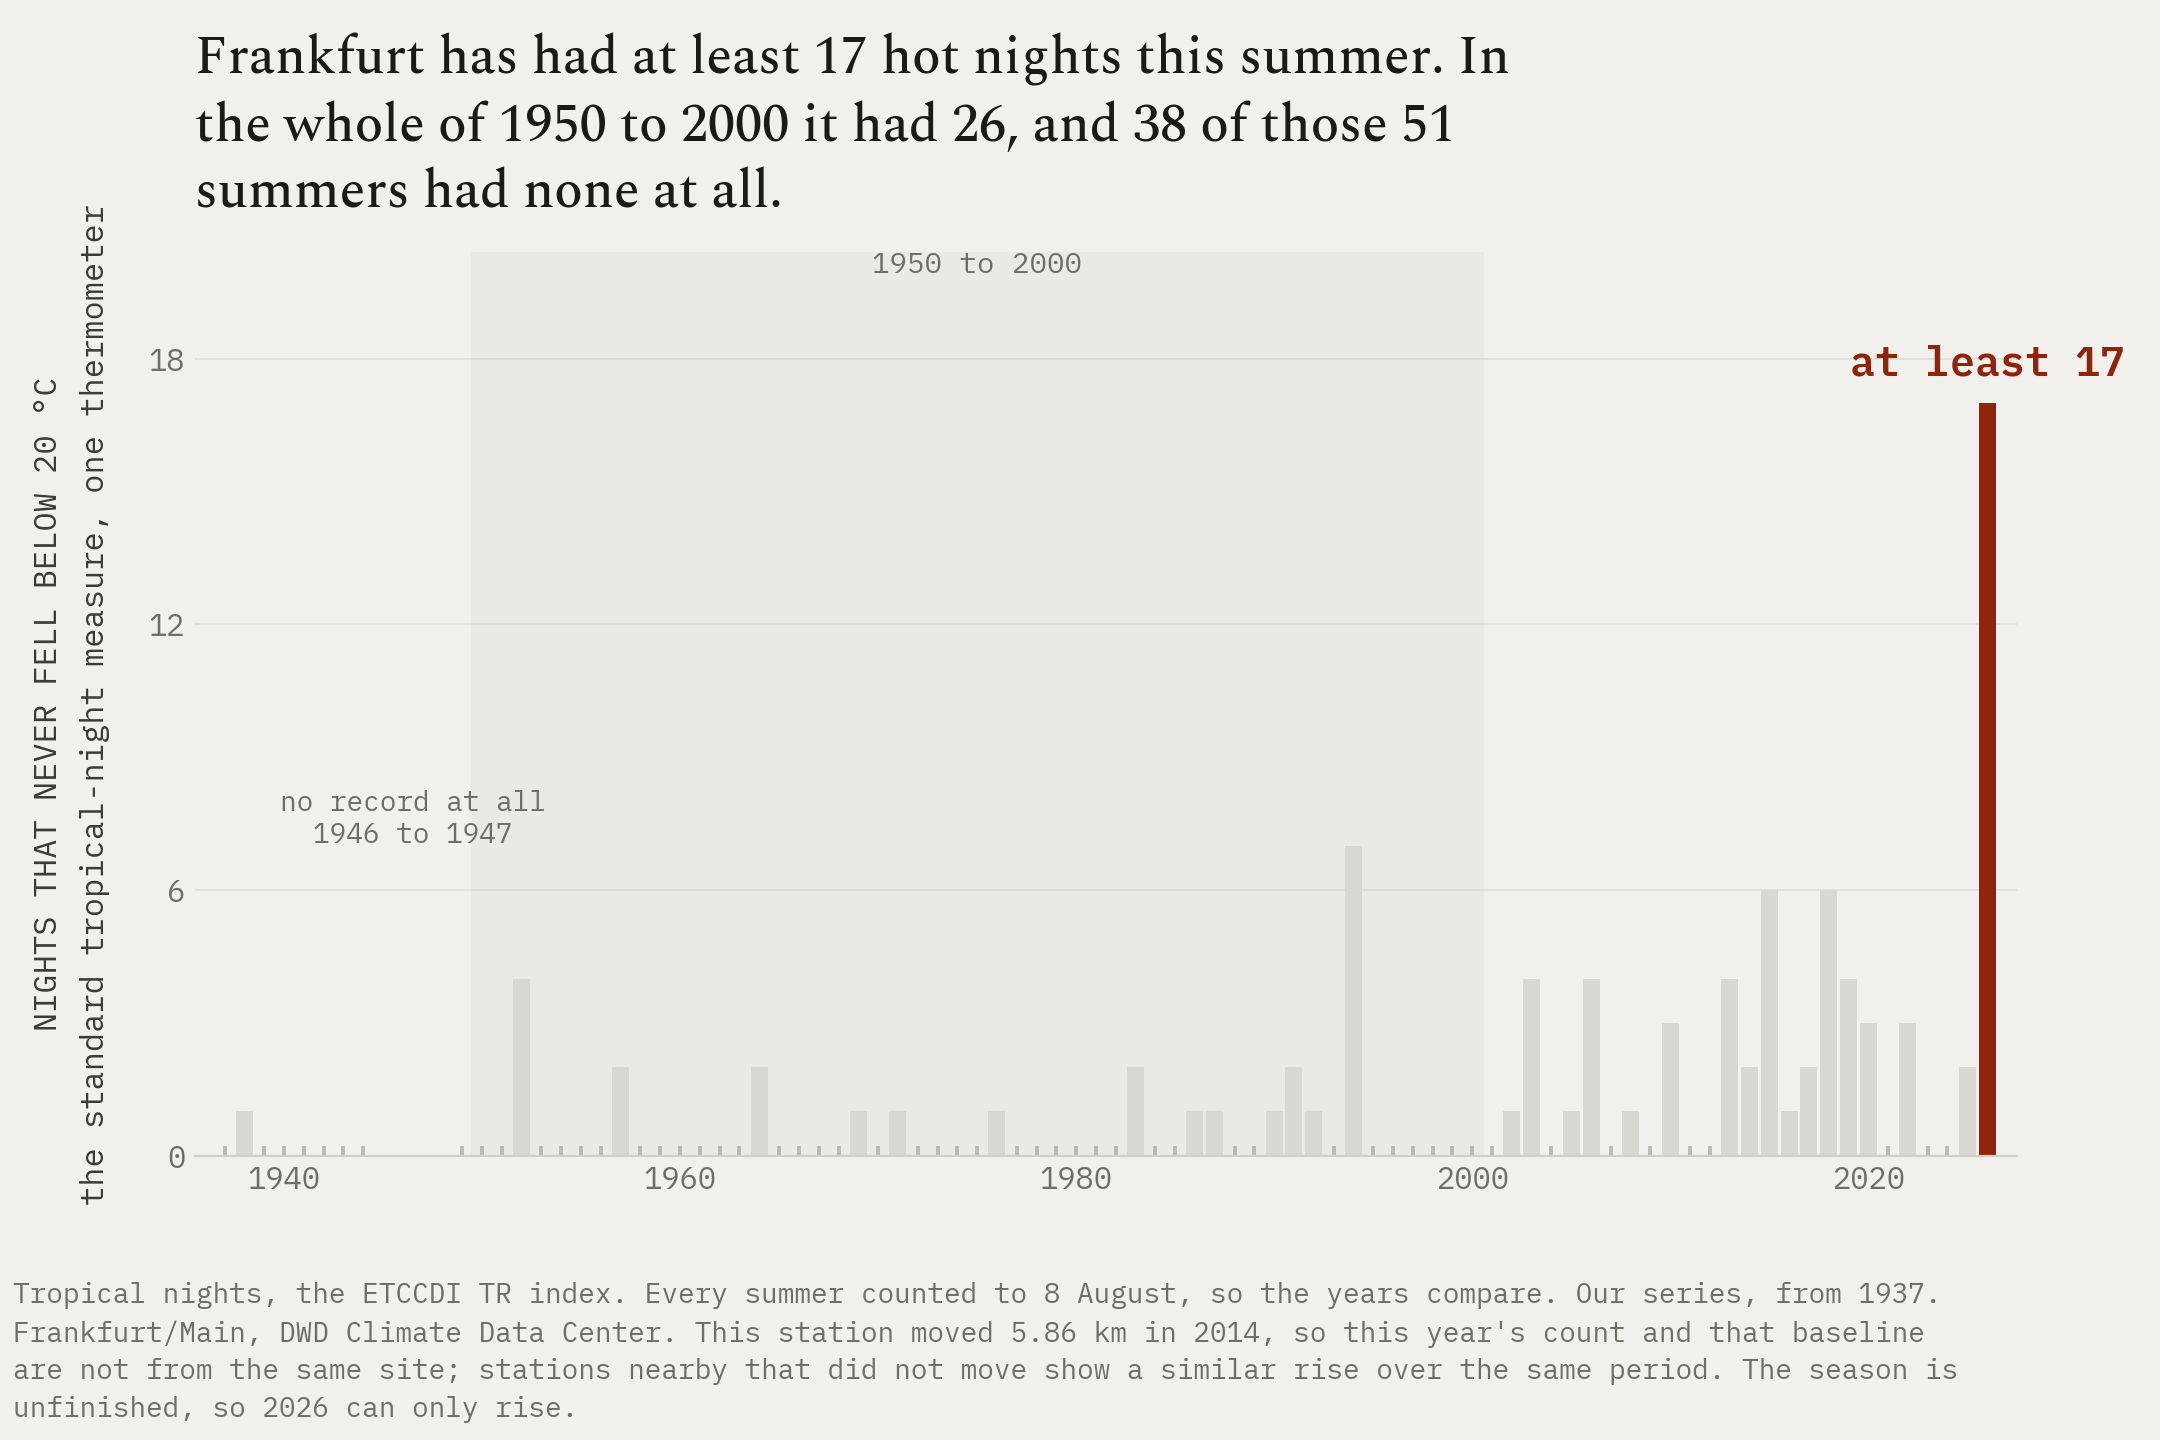
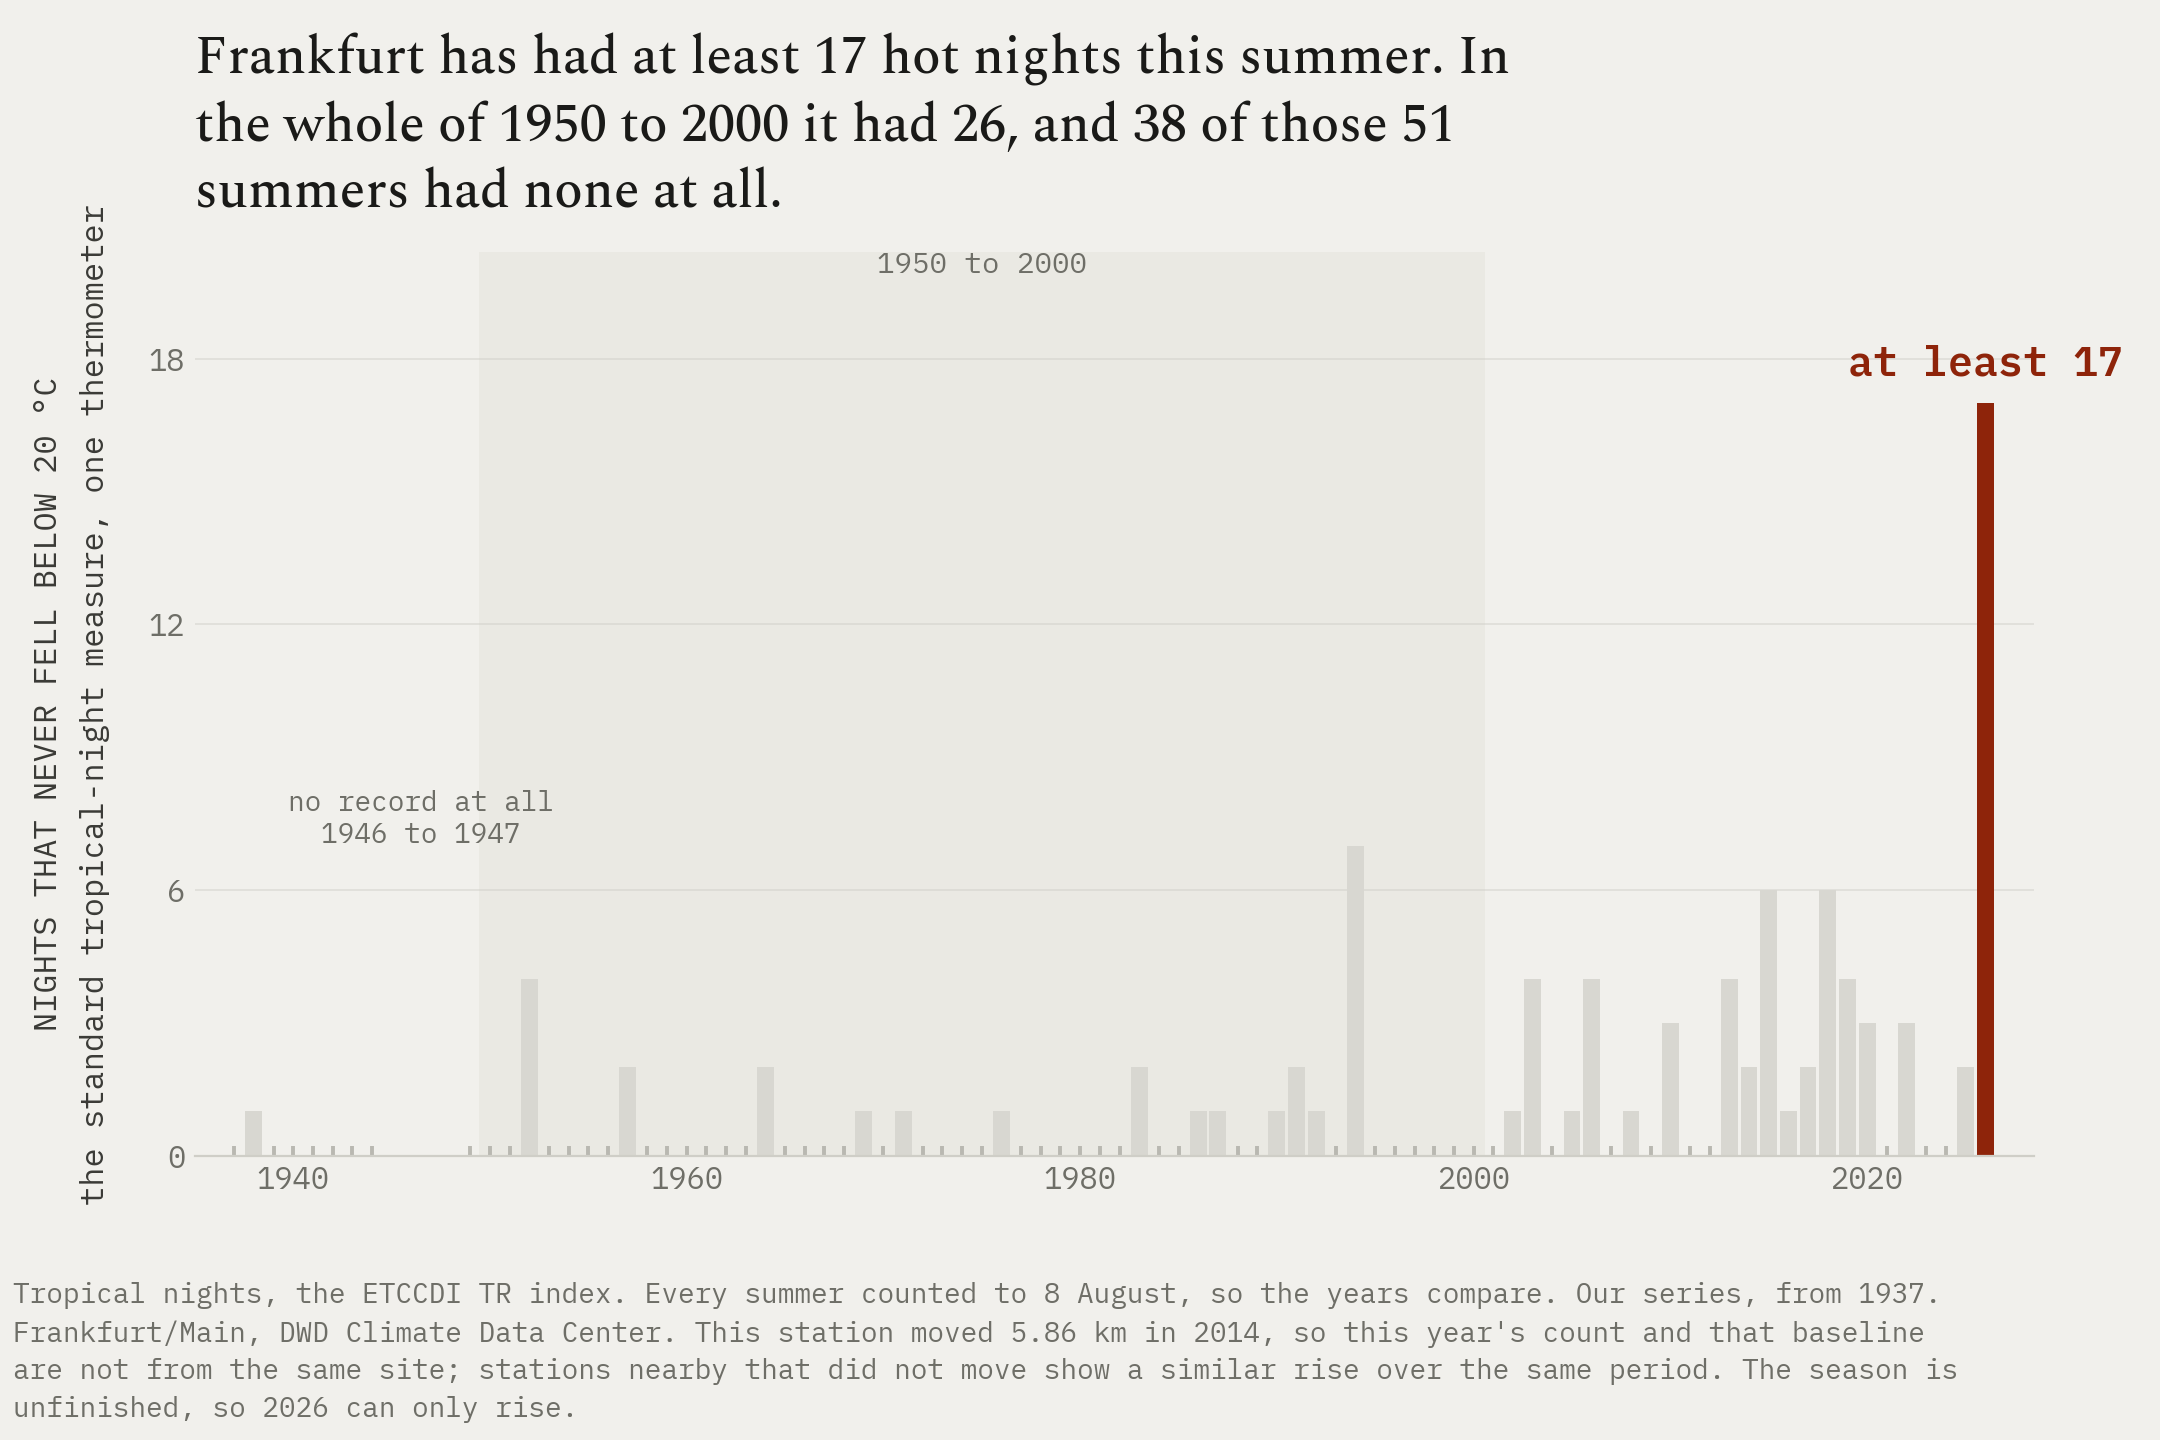
notes: three from VD's review, all about what a reader can see
THE MARK CARRYING THE CLAIM HAD NO CLEAR SPACE. The 2026 bar touched the
right plot boundary on both charts, so the one element the whole figure
is about was the only one crowded against an edge. Widened rather than
nudged, so the left keeps the same breathing room.

THE INDEX HAD AN EMPTY BLOCK, two hairlines with nothing between them,
below the only entry. VD is right that it reads as room left for
something that is not there, and at one entry that makes a short index
look unfinished rather than short. The list now closes on its last
entry; the footer brings its own rule.

THE ENTRY DID NOT READ AS A LINK. A hairline under a 21px heading reads
as a rule, and nothing else on the row said it was clickable. It now
follows the site's own link rule: ink text, rule underline, and the
underline takes the hover colour with it.

None of these are data defects, which is why nothing caught them and why
VD did. The last three real defects on the public surface were all found
by someone opening a page.

diff --git a/docs/notes/2026-08-10-how-bad-is-it/index.html b/docs/notes/2026-08-10-how-bad-is-it/index.html
@@ -217,10 +217,19 @@ h1 { font-family:"Spectral",Georgia,serif; font-weight:400;
 .foot a { color:var(--ink-faint); }
 .idx { list-style:none; padding:0; margin:26px 0 0; }
 .idx li { border-top:1px solid var(--rule); padding:16px 0; }
-.idx li:last-child { border-bottom:1px solid var(--rule); }
+/* NO CLOSING RULE. VD: the index had an empty block between the entry
+   and the footer, two hairlines with nothing between them, which reads
+   as room left for something that is not there. At one entry that makes
+   an index of one look unfinished rather than short. The list closes on
+   its last entry; the footer brings its own rule. */
+/* THE HOUSE LINK RULE, which this was not following. A hairline under a
+   21px heading reads as a rule, not an underline, and nothing else on the
+   row said the entry was clickable. Ink text, rule underline, and the
+   underline takes the hover colour with it. */
 .idx a { font-size:21px; color:var(--ink); text-decoration:none;
-  border-bottom:1px solid var(--rule); }
-.idx a:hover { border-bottom-color:var(--ink); }
+  border-bottom:1px solid var(--rule); padding-bottom:2px;
+  transition:border-color .12s, color .12s; }
+.idx a:hover { color:var(--nino); border-bottom-color:var(--nino); }
 .idx .lead { margin:10px 0 0; max-width:62ch; font-size:17px;
   line-height:1.6; color:var(--ink-soft); text-wrap:pretty; }
 .idx .when { display:block; font-family:"IBM Plex Mono",monospace;

diff --git a/docs/notes/index.html b/docs/notes/index.html
@@ -217,10 +217,19 @@ h1 { font-family:"Spectral",Georgia,serif; font-weight:400;
 .foot a { color:var(--ink-faint); }
 .idx { list-style:none; padding:0; margin:26px 0 0; }
 .idx li { border-top:1px solid var(--rule); padding:16px 0; }
-.idx li:last-child { border-bottom:1px solid var(--rule); }
+/* NO CLOSING RULE. VD: the index had an empty block between the entry
+   and the footer, two hairlines with nothing between them, which reads
+   as room left for something that is not there. At one entry that makes
+   an index of one look unfinished rather than short. The list closes on
+   its last entry; the footer brings its own rule. */
+/* THE HOUSE LINK RULE, which this was not following. A hairline under a
+   21px heading reads as a rule, not an underline, and nothing else on the
+   row said the entry was clickable. Ink text, rule underline, and the
+   underline takes the hover colour with it. */
 .idx a { font-size:21px; color:var(--ink); text-decoration:none;
-  border-bottom:1px solid var(--rule); }
-.idx a:hover { border-bottom-color:var(--ink); }
+  border-bottom:1px solid var(--rule); padding-bottom:2px;
+  transition:border-color .12s, color .12s; }
+.idx a:hover { color:var(--nino); border-bottom-color:var(--nino); }
 .idx .lead { margin:10px 0 0; max-width:62ch; font-size:17px;
   line-height:1.6; color:var(--ink-soft); text-wrap:pretty; }
 .idx .when { display:block; font-family:"IBM Plex Mono",monospace;

diff --git a/templates/note.py b/templates/note.py
@@ -115,10 +115,19 @@ h1 {{ font-family:"{T.FONT_PROSE}",Georgia,serif; font-weight:400;
 .foot a {{ color:var(--ink-faint); }}
 .idx {{ list-style:none; padding:0; margin:26px 0 0; }}
 .idx li {{ border-top:1px solid var(--rule); padding:16px 0; }}
-.idx li:last-child {{ border-bottom:1px solid var(--rule); }}
+/* NO CLOSING RULE. VD: the index had an empty block between the entry
+   and the footer, two hairlines with nothing between them, which reads
+   as room left for something that is not there. At one entry that makes
+   an index of one look unfinished rather than short. The list closes on
+   its last entry; the footer brings its own rule. */
+/* THE HOUSE LINK RULE, which this was not following. A hairline under a
+   21px heading reads as a rule, not an underline, and nothing else on the
+   row said the entry was clickable. Ink text, rule underline, and the
+   underline takes the hover colour with it. */
 .idx a {{ font-size:21px; color:var(--ink); text-decoration:none;
-  border-bottom:1px solid var(--rule); }}
-.idx a:hover {{ border-bottom-color:var(--ink); }}
+  border-bottom:1px solid var(--rule); padding-bottom:2px;
+  transition:border-color .12s, color .12s; }}
+.idx a:hover {{ color:var(--nino); border-bottom-color:var(--nino); }}
 .idx .lead {{ margin:10px 0 0; max-width:62ch; font-size:17px;
   line-height:1.6; color:var(--ink-soft); text-wrap:pretty; }}
 .idx .when {{ display:block; font-family:"{T.FONT_DATA}",monospace;

diff --git a/design/make_note_chart.py b/design/make_note_chart.py
@@ -159,7 +159,11 @@ def draw(city, metric, reference=None):
     ax.bar([2026], [now], width=0.86, color=NOW, linewidth=0)
 
     prev = max(vals.values())
-    ax.set_xlim(years[0] - 1.5, 2027.5)
+    # CLEAR SPACE AROUND THE MARK THAT CARRIES THE CLAIM. VD: the 2026 bar
+    # touched the right plot boundary, so the one element the whole figure
+    # is about was the only one with nothing around it. Widened rather than
+    # nudged, so the left edge keeps the same breathing room.
+    ax.set_xlim(years[0] - 2.0, 2028.5)
     ax.set_ylim(0, max(now, prev) * 1.20)
     if reference:
         a, b = reference
